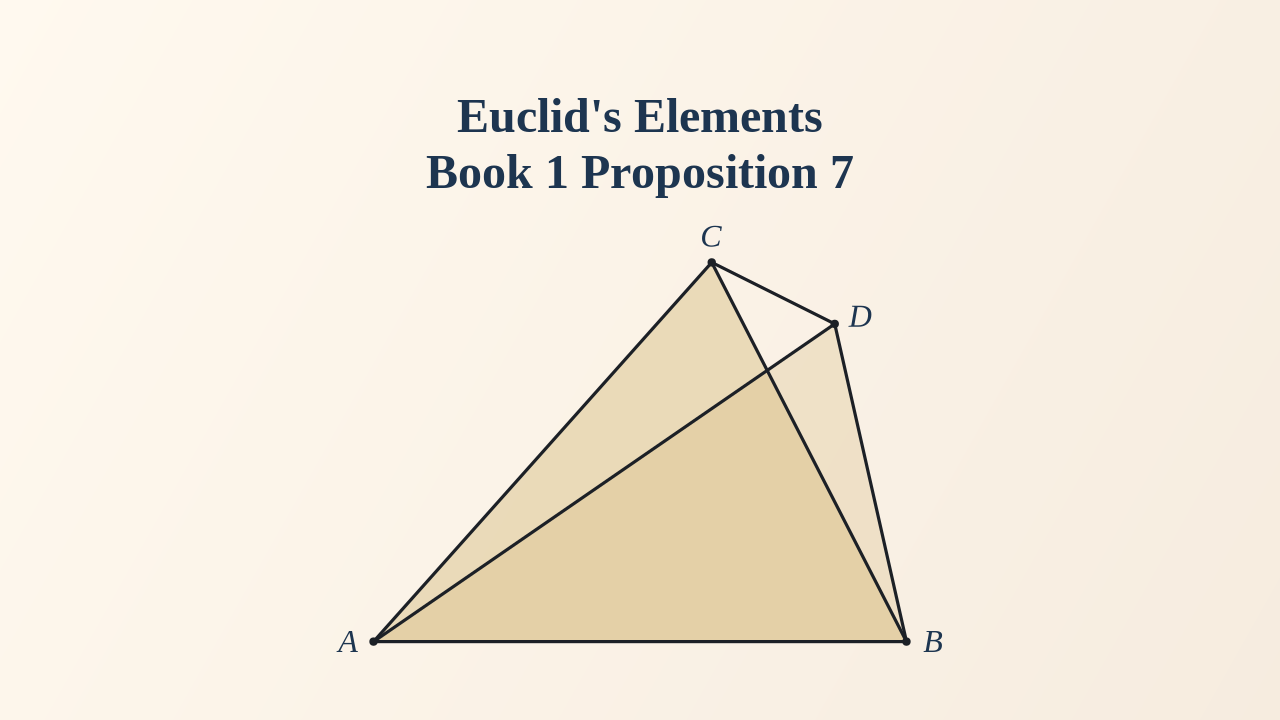
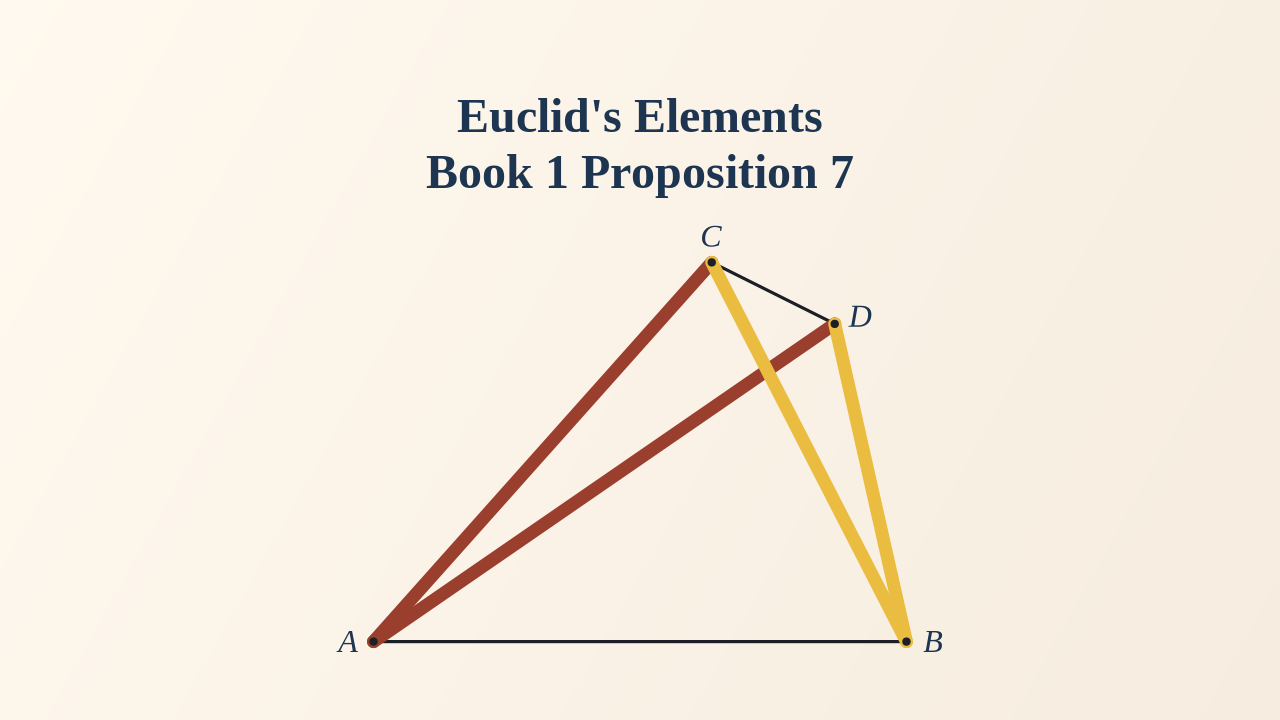
Mark the equal lines on the I.7 thumbnail. (#63)
Proposition 7 names two pairs of equal lines, not the two triangles. AC and AD take the brick; CB and DB take the yellow. AB and CD stay the plate.

Changed region(s): [[0.2812, 0.3667, 0.7188, 0.9167]]

diff --git a/scripts/youtube_book1_thumbs.py b/scripts/youtube_book1_thumbs.py
@@ -31,7 +31,13 @@ the sides subtending them equal. The card keeps the plate — D and DC are
 the reductio, not the subject — and marks what the enunciation names.
 ∠ABC and ∠ACB take one yellow pie. AB and AC, the sides under those
 angles, take the brick. A wash of ABC would light the triangle, which the
-proposition does not claim. Labels stay navy, the color every other card
+proposition does not claim. I.7 is the impossibility on one straight-line:
+AC, CB cannot be constructed equal, respectively, to AD, DB, meeting at
+another point on the same side. The card keeps the plate — AB is the
+given line, CD is joined for the reductio — and marks the two equalities.
+AC and AD, the pair from A, take the brick. CB and DB, the pair to B,
+take the yellow. A wash of ACB and ADB would light the triangles, which
+the proposition does not claim. Labels stay navy, the color every other card
 uses.
 """
 
@@ -70,7 +76,6 @@ LETTER_R = 0.82  # plate::LETTER_R, em of the letter type
 WASHES: dict[int, list[tuple[str, ...]]] = {
     1: [("A", "B", "C")],
     4: [("A", "B", "C"), ("D", "E", "F")],
-    7: [("A", "C", "B"), ("A", "D", "B")],
     8: [("A", "B", "C"), ("D", "E", "F")],
     16: [("A", "B", "C")],
     17: [("A", "B", "C")],
@@ -111,6 +116,14 @@ LINES: dict[int, list[tuple[str, str]]] = {
     # AB and AC, the sides subtending the equal angles. D lies on AB, so
     # the named side is the whole chord, not the cut pieces AD and DB.
     6: [("A", "B"), ("A", "C")],
+    # AC = AD, the pair from A. CB = DB is the other equality (LINE_ALT).
+    7: [("A", "C"), ("A", "D")],
+}
+
+# A second equality, a second hue. Same width as the brick. Yellow is the
+# angle highlight, so the two pairs read as two sets, not two triangles.
+LINE_ALT: dict[int, list[tuple[str, str]]] = {
+    7: [("C", "B"), ("D", "B")],
 }
 
 # Equal angles share a mark: (arm, vertex, arm), grouped by equality.
@@ -884,10 +897,11 @@ def render(n: int, scene: Scene, out: Path) -> None:
     # into the circle (I.1, I.2, I.3, I.12, I.22).
     cr.new_path()
     lit_segs = LINES.get(n, [])
-    for a, b in lit_segs:
+    alt_segs = LINE_ALT.get(n, [])
+    for a, b in lit_segs + alt_segs:
         if a not in scene.pts or b not in scene.pts:
             raise SystemExit(f"I.{n}: line {a}{b} missing")
-    lit_ink = {(a, b) for a, b in lit_segs} | {(b, a) for a, b in lit_segs}
+    lit_ink = {(a, b) for a, b in lit_segs + alt_segs} | {(b, a) for a, b in lit_segs + alt_segs}
     # Construction stays the same ink as I.1. Only the named lines are lit.
     # A named side may be chained through a construction point (D on AB).
     # The highlight is the whole chord, drawn over the pieces, so the plate's
@@ -921,14 +935,19 @@ def render(n: int, scene: Scene, out: Path) -> None:
         cr.stroke()
 
     # Brick, not the wash gold: gold on cream reads as mustard and fights
-    # the navy type. Labels stay navy, the color every other card uses.
-    cr.set_source_rgb(*rgb(BRICK))
-    cr.set_line_width(13)
-    cr.set_line_cap(cairo.LINE_CAP_ROUND)
-    for a, b in lit_segs:
-        cr.move_to(*pt(a))
-        cr.line_to(*pt(b))
-        cr.stroke()
+    # the navy type. A second equality takes the yellow, so the pairs read
+    # as two sets. Labels stay navy, the color every other card uses.
+    def stroke_lines(segs, color) -> None:
+        cr.set_source_rgb(*rgb(color))
+        cr.set_line_width(13)
+        cr.set_line_cap(cairo.LINE_CAP_ROUND)
+        for a, b in segs:
+            cr.move_to(*pt(a))
+            cr.line_to(*pt(b))
+            cr.stroke()
+
+    stroke_lines(lit_segs, BRICK)
+    stroke_lines(alt_segs, PIE)
 
     cr.new_path()
     for p in scene.dot_pts:
